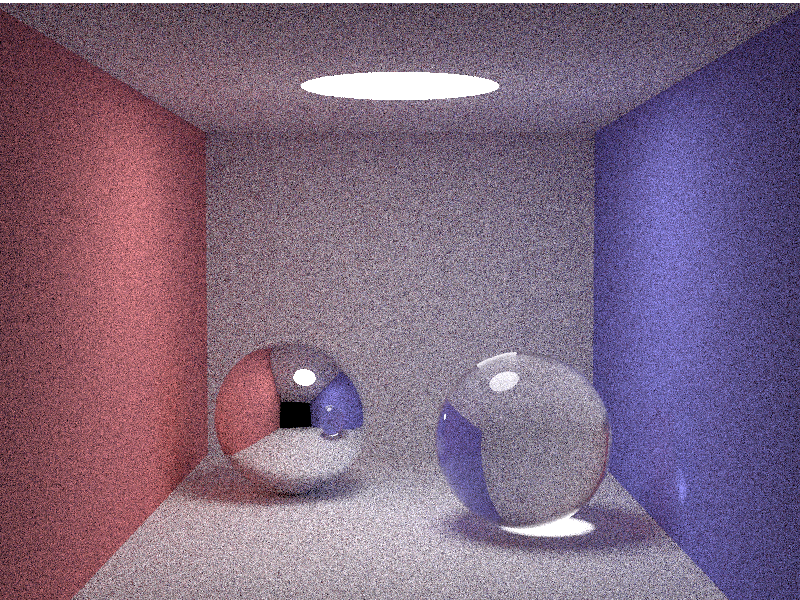
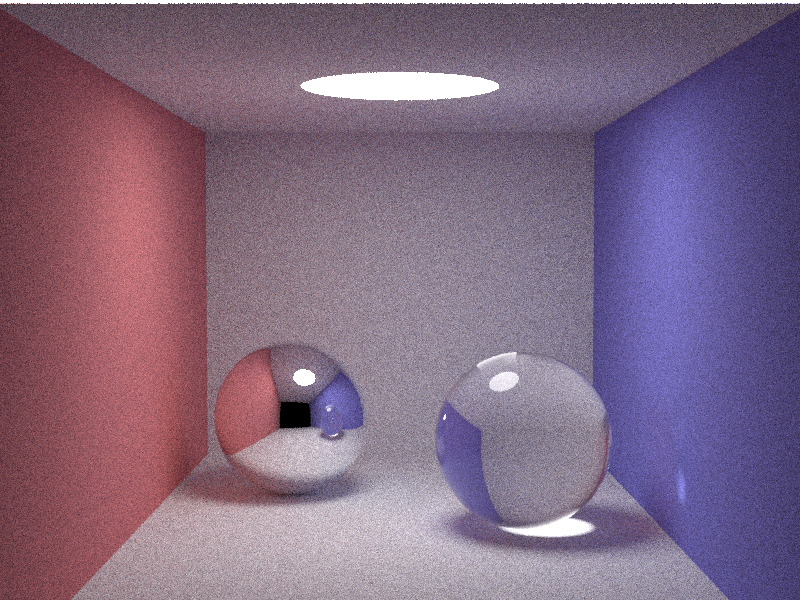
Update README and the result.

diff --git a/README.md b/README.md
@@ -16,7 +16,9 @@ $ cabal run [width] [height] [samples]
 
 ![result](result.png)
 
-(800 x 600, 128 samples per pixel)
+**(800 x 600, 512 samples per pixel)**
+
+**Computation took 28000 secs with 1.8 GHz CPU**
 
 ## License
 
